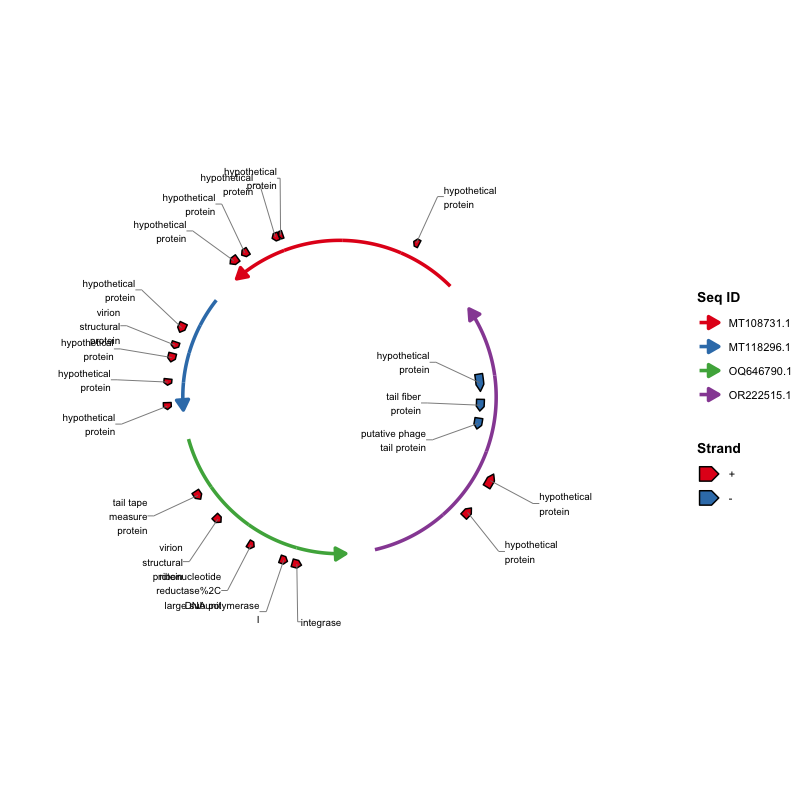
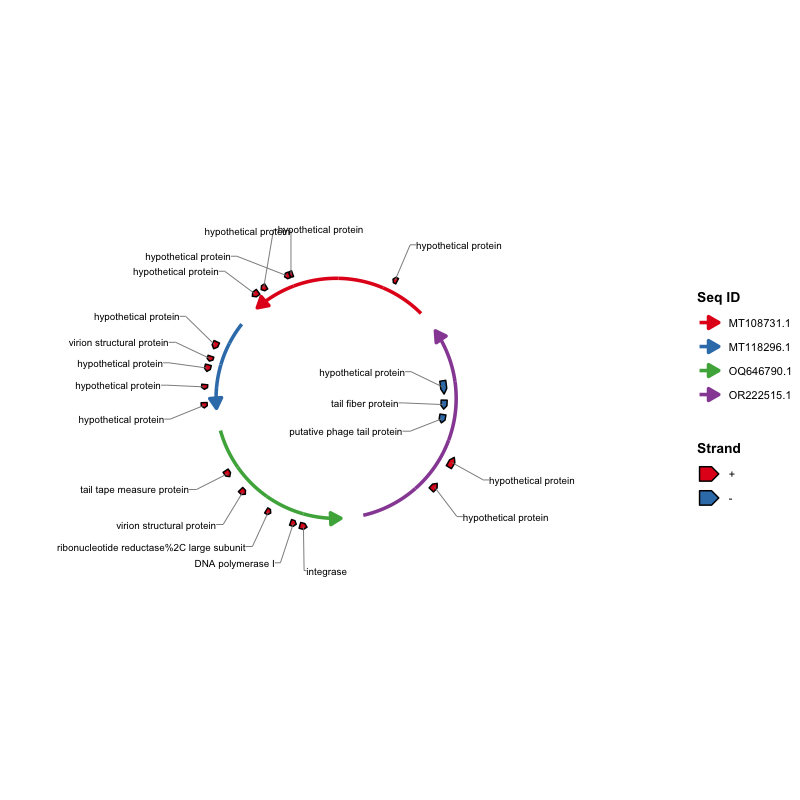
v0.6.0 preview version 23

diff --git a/README-Hans.md b/README-Hans.md
@@ -311,7 +311,7 @@ ggchord(seq_data_example, gene_data = gene_data_example) +
   geom_gene_label_repel(
     gene_label_orientation = "horizontal",
     gene_label_segment = "elbow",
-    gene_label_wrap = 15
+    gene_label_wrap = 0
   )
 ```
 
@@ -334,7 +334,7 @@ ggchord(seq_data_example, ribbon_data_example, gene_data_example) +
     gene_label_orientation = "horizontal",
     gene_label_segment = "elbow",
     gene_label_side = "outside",
-    gene_label_wrap = 15
+    gene_label_wrap = 0
   )
 ```
 
@@ -413,7 +413,41 @@ ggchord(seq3, ribbon3, gene3) +
 
 ![三序列比较](man/figures/example_seq3.png)
 
-#### 第 7 步：组合所有图层并精细控制
+#### 第 7 步：用 `+` 添加主题与 scale
+
+ggchord 图形是真正的 ggplot2 对象，`theme()` 与 `scale_*()` 可以像在 ggplot2 中一样使用：
+
+```r
+ggchord(seq_data_example, ribbon_data_example, gene_data_example) +
+  geom_seq() + geom_ribbon() + geom_gene() + geom_axis() +
+  theme(panel.background = element_rect(fill = "grey95")) +
+  scale_color_manual(
+    values = c("MT108731.1" = "#E41A1C",
+               "MT118296.1" = "#377EB8",
+               "OQ646790.1" = "#4DAF4A",
+               "OR222515.1" = "#984EA3")
+  )
+```
+
+![自定义主题与 scale 的弦图](man/figures/theme_custom.png)
+
+> 提示：出现 "Scale for colour is already present" 信息只是表示你的
+> `scale_color_manual()` 替换了内置的默认 scale，属于正常现象，不影响结果。
+
+**图例摆放**。默认情况下各图层的图例独立摆放：Seq ID 图例与链/基因注释图例在右侧，Identity(%) 色条在左侧。可通过 `geom_seq()`、`geom_ribbon()`、`geom_gene()` 各自的 `legend_position` 参数分别移动。若将 `legend_position` 设为 `NULL`，该图例将遵循 `theme(legend.position = ...)`，从而可以把所有图例放在一起：
+
+```r
+ggchord(seq_data_example, ribbon_data_example, gene_data_example) +
+  geom_seq(legend_position = NULL) +
+  geom_ribbon(legend_position = NULL) +
+  geom_gene(legend_position = NULL) +
+  geom_axis() +
+  theme(legend.position = "bottom", legend.box = "horizontal")
+```
+
+![通过 theme() 将所有图例放在底部](man/figures/legend_bottom.png)
+
+#### 第 8 步：组合所有图层并精细控制
 
 每个图层都可以接收精细参数。下图把 ggchord 的特色功能全部组合在一起：
 逐序列的半径、方向与弯曲度，按一致性着色的 ribbon，按链向着色的基因箭头，
@@ -496,40 +530,6 @@ ggchord(
 ```
 
 ![精细控制下的完整弦图（可作为封面图）](man/figures/combined_fine.png)
-
-#### 第 8 步：用 `+` 添加主题与 scale
-
-ggchord 图形是真正的 ggplot2 对象，`theme()` 与 `scale_*()` 可以像在 ggplot2 中一样使用：
-
-```r
-ggchord(seq_data_example, ribbon_data_example, gene_data_example) +
-  geom_seq() + geom_ribbon() + geom_gene() + geom_axis() +
-  theme(panel.background = element_rect(fill = "grey95")) +
-  scale_color_manual(
-    values = c("MT108731.1" = "#E41A1C",
-               "MT118296.1" = "#377EB8",
-               "OQ646790.1" = "#4DAF4A",
-               "OR222515.1" = "#984EA3")
-  )
-```
-
-![自定义主题与 scale 的弦图](man/figures/theme_custom.png)
-
-> 提示：出现 "Scale for colour is already present" 信息只是表示你的
-> `scale_color_manual()` 替换了内置的默认 scale，属于正常现象，不影响结果。
-
-**图例摆放**。默认情况下各图层的图例独立摆放：Seq ID 图例与链/基因注释图例在右侧，Identity(%) 色条在左侧。可通过 `geom_seq()`、`geom_ribbon()`、`geom_gene()` 各自的 `legend_position` 参数分别移动。若将 `legend_position` 设为 `NULL`，该图例将遵循 `theme(legend.position = ...)`，从而可以把所有图例放在一起：
-
-```r
-ggchord(seq_data_example, ribbon_data_example, gene_data_example) +
-  geom_seq(legend_position = NULL) +
-  geom_ribbon(legend_position = NULL) +
-  geom_gene(legend_position = NULL) +
-  geom_axis() +
-  theme(legend.position = "bottom", legend.box = "horizontal")
-```
-
-![通过 theme() 将所有图例放在底部](man/figures/legend_bottom.png)
 
 ### 3. 灵活的参数格式
 

diff --git a/README.md b/README.md
@@ -343,7 +343,7 @@ ggchord(seq_data_example, gene_data = gene_data_example) +
   geom_gene_label_repel(
     gene_label_orientation = "horizontal",
     gene_label_segment = "elbow",
-    gene_label_wrap = 15
+    gene_label_wrap = 0
   )
 ```
 
@@ -366,7 +366,7 @@ ggchord(seq_data_example, ribbon_data_example, gene_data_example) +
     gene_label_orientation = "horizontal",
     gene_label_segment = "elbow",
     gene_label_side = "outside",
-    gene_label_wrap = 15
+    gene_label_wrap = 0
   )
 ```
 
@@ -446,7 +446,48 @@ ggchord(seq3, ribbon3, gene3) +
 
 ![Three-sequence comparison](man/figures/example_seq3.png)
 
-#### Step 7: Combine everything and fine-tune
+#### Step 7: Add themes and scales with `+`
+
+A ggchord plot is a real ggplot2 object, so `theme()` and `scale_*()` work as
+usual:
+
+```r
+ggchord(seq_data_example, ribbon_data_example, gene_data_example) +
+  geom_seq() + geom_ribbon() + geom_gene() + geom_axis() +
+  theme(panel.background = element_rect(fill = "grey95")) +
+  scale_color_manual(
+    values = c("MT108731.1" = "#E41A1C",
+               "MT118296.1" = "#377EB8",
+               "OQ646790.1" = "#4DAF4A",
+               "OR222515.1" = "#984EA3")
+  )
+```
+
+![Chord diagram with a custom theme and scale](man/figures/theme_custom.png)
+
+> The "Scale for colour is already present" message simply means your
+> `scale_color_manual()` replaces the built-in default scale — this is
+> expected and harmless.
+
+**Legend placement.** Each layer's legend is placed independently by default:
+the Seq ID legend and the Strand/Gene legend are on the right, and the
+Identity(%) colourbar is on the left. Move each one with the `legend_position`
+argument of `geom_seq()`, `geom_ribbon()` and `geom_gene()`. Set
+`legend_position = NULL` to make a legend follow `theme(legend.position = ...)`
+so all legends can be grouped together:
+
+```r
+ggchord(seq_data_example, ribbon_data_example, gene_data_example) +
+  geom_seq(legend_position = NULL) +
+  geom_ribbon(legend_position = NULL) +
+  geom_gene(legend_position = NULL) +
+  geom_axis() +
+  theme(legend.position = "bottom", legend.box = "horizontal")
+```
+
+![All legends grouped at the bottom via theme()](man/figures/legend_bottom.png)
+
+#### Step 8: Combine everything and fine-tune
 
 Every layer accepts fine-grained parameters. The plot below puts them all
 together: per-sequence radii, orientations and curvatures, identity-colored
@@ -530,47 +571,6 @@ ggchord(
 ```
 
 ![Full chord diagram with fine-grained control](man/figures/combined_fine.png)
-
-#### Step 8: Add themes and scales with `+`
-
-A ggchord plot is a real ggplot2 object, so `theme()` and `scale_*()` work as
-usual:
-
-```r
-ggchord(seq_data_example, ribbon_data_example, gene_data_example) +
-  geom_seq() + geom_ribbon() + geom_gene() + geom_axis() +
-  theme(panel.background = element_rect(fill = "grey95")) +
-  scale_color_manual(
-    values = c("MT108731.1" = "#E41A1C",
-               "MT118296.1" = "#377EB8",
-               "OQ646790.1" = "#4DAF4A",
-               "OR222515.1" = "#984EA3")
-  )
-```
-
-![Chord diagram with a custom theme and scale](man/figures/theme_custom.png)
-
-> The "Scale for colour is already present" message simply means your
-> `scale_color_manual()` replaces the built-in default scale — this is
-> expected and harmless.
-
-**Legend placement.** Each layer's legend is placed independently by default:
-the Seq ID legend and the Strand/Gene legend are on the right, and the
-Identity(%) colourbar is on the left. Move each one with the `legend_position`
-argument of `geom_seq()`, `geom_ribbon()` and `geom_gene()`. Set
-`legend_position = NULL` to make a legend follow `theme(legend.position = ...)`
-so all legends can be grouped together:
-
-```r
-ggchord(seq_data_example, ribbon_data_example, gene_data_example) +
-  geom_seq(legend_position = NULL) +
-  geom_ribbon(legend_position = NULL) +
-  geom_gene(legend_position = NULL) +
-  geom_axis() +
-  theme(legend.position = "bottom", legend.box = "horizontal")
-```
-
-![All legends grouped at the bottom via theme()](man/figures/legend_bottom.png)
 
 ### 3. Flexible parameter formats
 

diff --git a/pkgdown/index.md b/pkgdown/index.md
@@ -341,7 +341,7 @@ ggchord(seq_data_example, gene_data = gene_data_example) +
   geom_gene_label_repel(
     gene_label_orientation = "horizontal",
     gene_label_segment = "elbow",
-    gene_label_wrap = 15
+    gene_label_wrap = 0
   )
 ```
 
@@ -402,7 +402,48 @@ ggchord(seq3, ribbon3, gene3) +
 
 ![Three-sequence comparison](man/figures/example_seq3.png)
 
-#### Step 7: Combine everything and fine-tune
+#### Step 7: Add themes and scales with `+`
+
+A ggchord plot is a real ggplot2 object, so `theme()` and `scale_*()` work as
+usual:
+
+```r
+ggchord(seq_data_example, ribbon_data_example, gene_data_example) +
+  geom_seq() + geom_ribbon() + geom_gene() + geom_axis() +
+  theme(panel.background = element_rect(fill = "grey95")) +
+  scale_color_manual(
+    values = c("MT108731.1" = "#E41A1C",
+               "MT118296.1" = "#377EB8",
+               "OQ646790.1" = "#4DAF4A",
+               "OR222515.1" = "#984EA3")
+  )
+```
+
+![Chord diagram with a custom theme and scale](man/figures/theme_custom.png)
+
+> The "Scale for colour is already present" message simply means your
+> `scale_color_manual()` replaces the built-in default scale — this is
+> expected and harmless.
+
+**Legend placement.** Each layer's legend is placed independently by default:
+the Seq ID legend and the Strand/Gene legend are on the right, and the
+Identity(%) colourbar is on the left. Move each one with the `legend_position`
+argument of `geom_seq()`, `geom_ribbon()` and `geom_gene()`. Set
+`legend_position = NULL` to make a legend follow `theme(legend.position = ...)`
+so all legends can be grouped together:
+
+```r
+ggchord(seq_data_example, ribbon_data_example, gene_data_example) +
+  geom_seq(legend_position = NULL) +
+  geom_ribbon(legend_position = NULL) +
+  geom_gene(legend_position = NULL) +
+  geom_axis() +
+  theme(legend.position = "bottom", legend.box = "horizontal")
+```
+
+![All legends grouped at the bottom via theme()](man/figures/legend_bottom.png)
+
+#### Step 8: Combine everything and fine-tune
 
 Every layer accepts fine-grained parameters. The plot below puts them all
 together: per-sequence radii, orientations and curvatures, identity-colored
@@ -486,47 +527,6 @@ ggchord(
 ```
 
 ![Full chord diagram with fine-grained control](man/figures/combined_fine.png)
-
-#### Step 8: Add themes and scales with `+`
-
-A ggchord plot is a real ggplot2 object, so `theme()` and `scale_*()` work as
-usual:
-
-```r
-ggchord(seq_data_example, ribbon_data_example, gene_data_example) +
-  geom_seq() + geom_ribbon() + geom_gene() + geom_axis() +
-  theme(panel.background = element_rect(fill = "grey95")) +
-  scale_color_manual(
-    values = c("MT108731.1" = "#E41A1C",
-               "MT118296.1" = "#377EB8",
-               "OQ646790.1" = "#4DAF4A",
-               "OR222515.1" = "#984EA3")
-  )
-```
-
-![Chord diagram with a custom theme and scale](man/figures/theme_custom.png)
-
-> The "Scale for colour is already present" message simply means your
-> `scale_color_manual()` replaces the built-in default scale — this is
-> expected and harmless.
-
-**Legend placement.** Each layer's legend is placed independently by default:
-the Seq ID legend and the Strand/Gene legend are on the right, and the
-Identity(%) colourbar is on the left. Move each one with the `legend_position`
-argument of `geom_seq()`, `geom_ribbon()` and `geom_gene()`. Set
-`legend_position = NULL` to make a legend follow `theme(legend.position = ...)`
-so all legends can be grouped together:
-
-```r
-ggchord(seq_data_example, ribbon_data_example, gene_data_example) +
-  geom_seq(legend_position = NULL) +
-  geom_ribbon(legend_position = NULL) +
-  geom_gene(legend_position = NULL) +
-  geom_axis() +
-  theme(legend.position = "bottom", legend.box = "horizontal")
-```
-
-![All legends grouped at the bottom via theme()](man/figures/legend_bottom.png)
 
 ### 3. Flexible parameter formats
 
